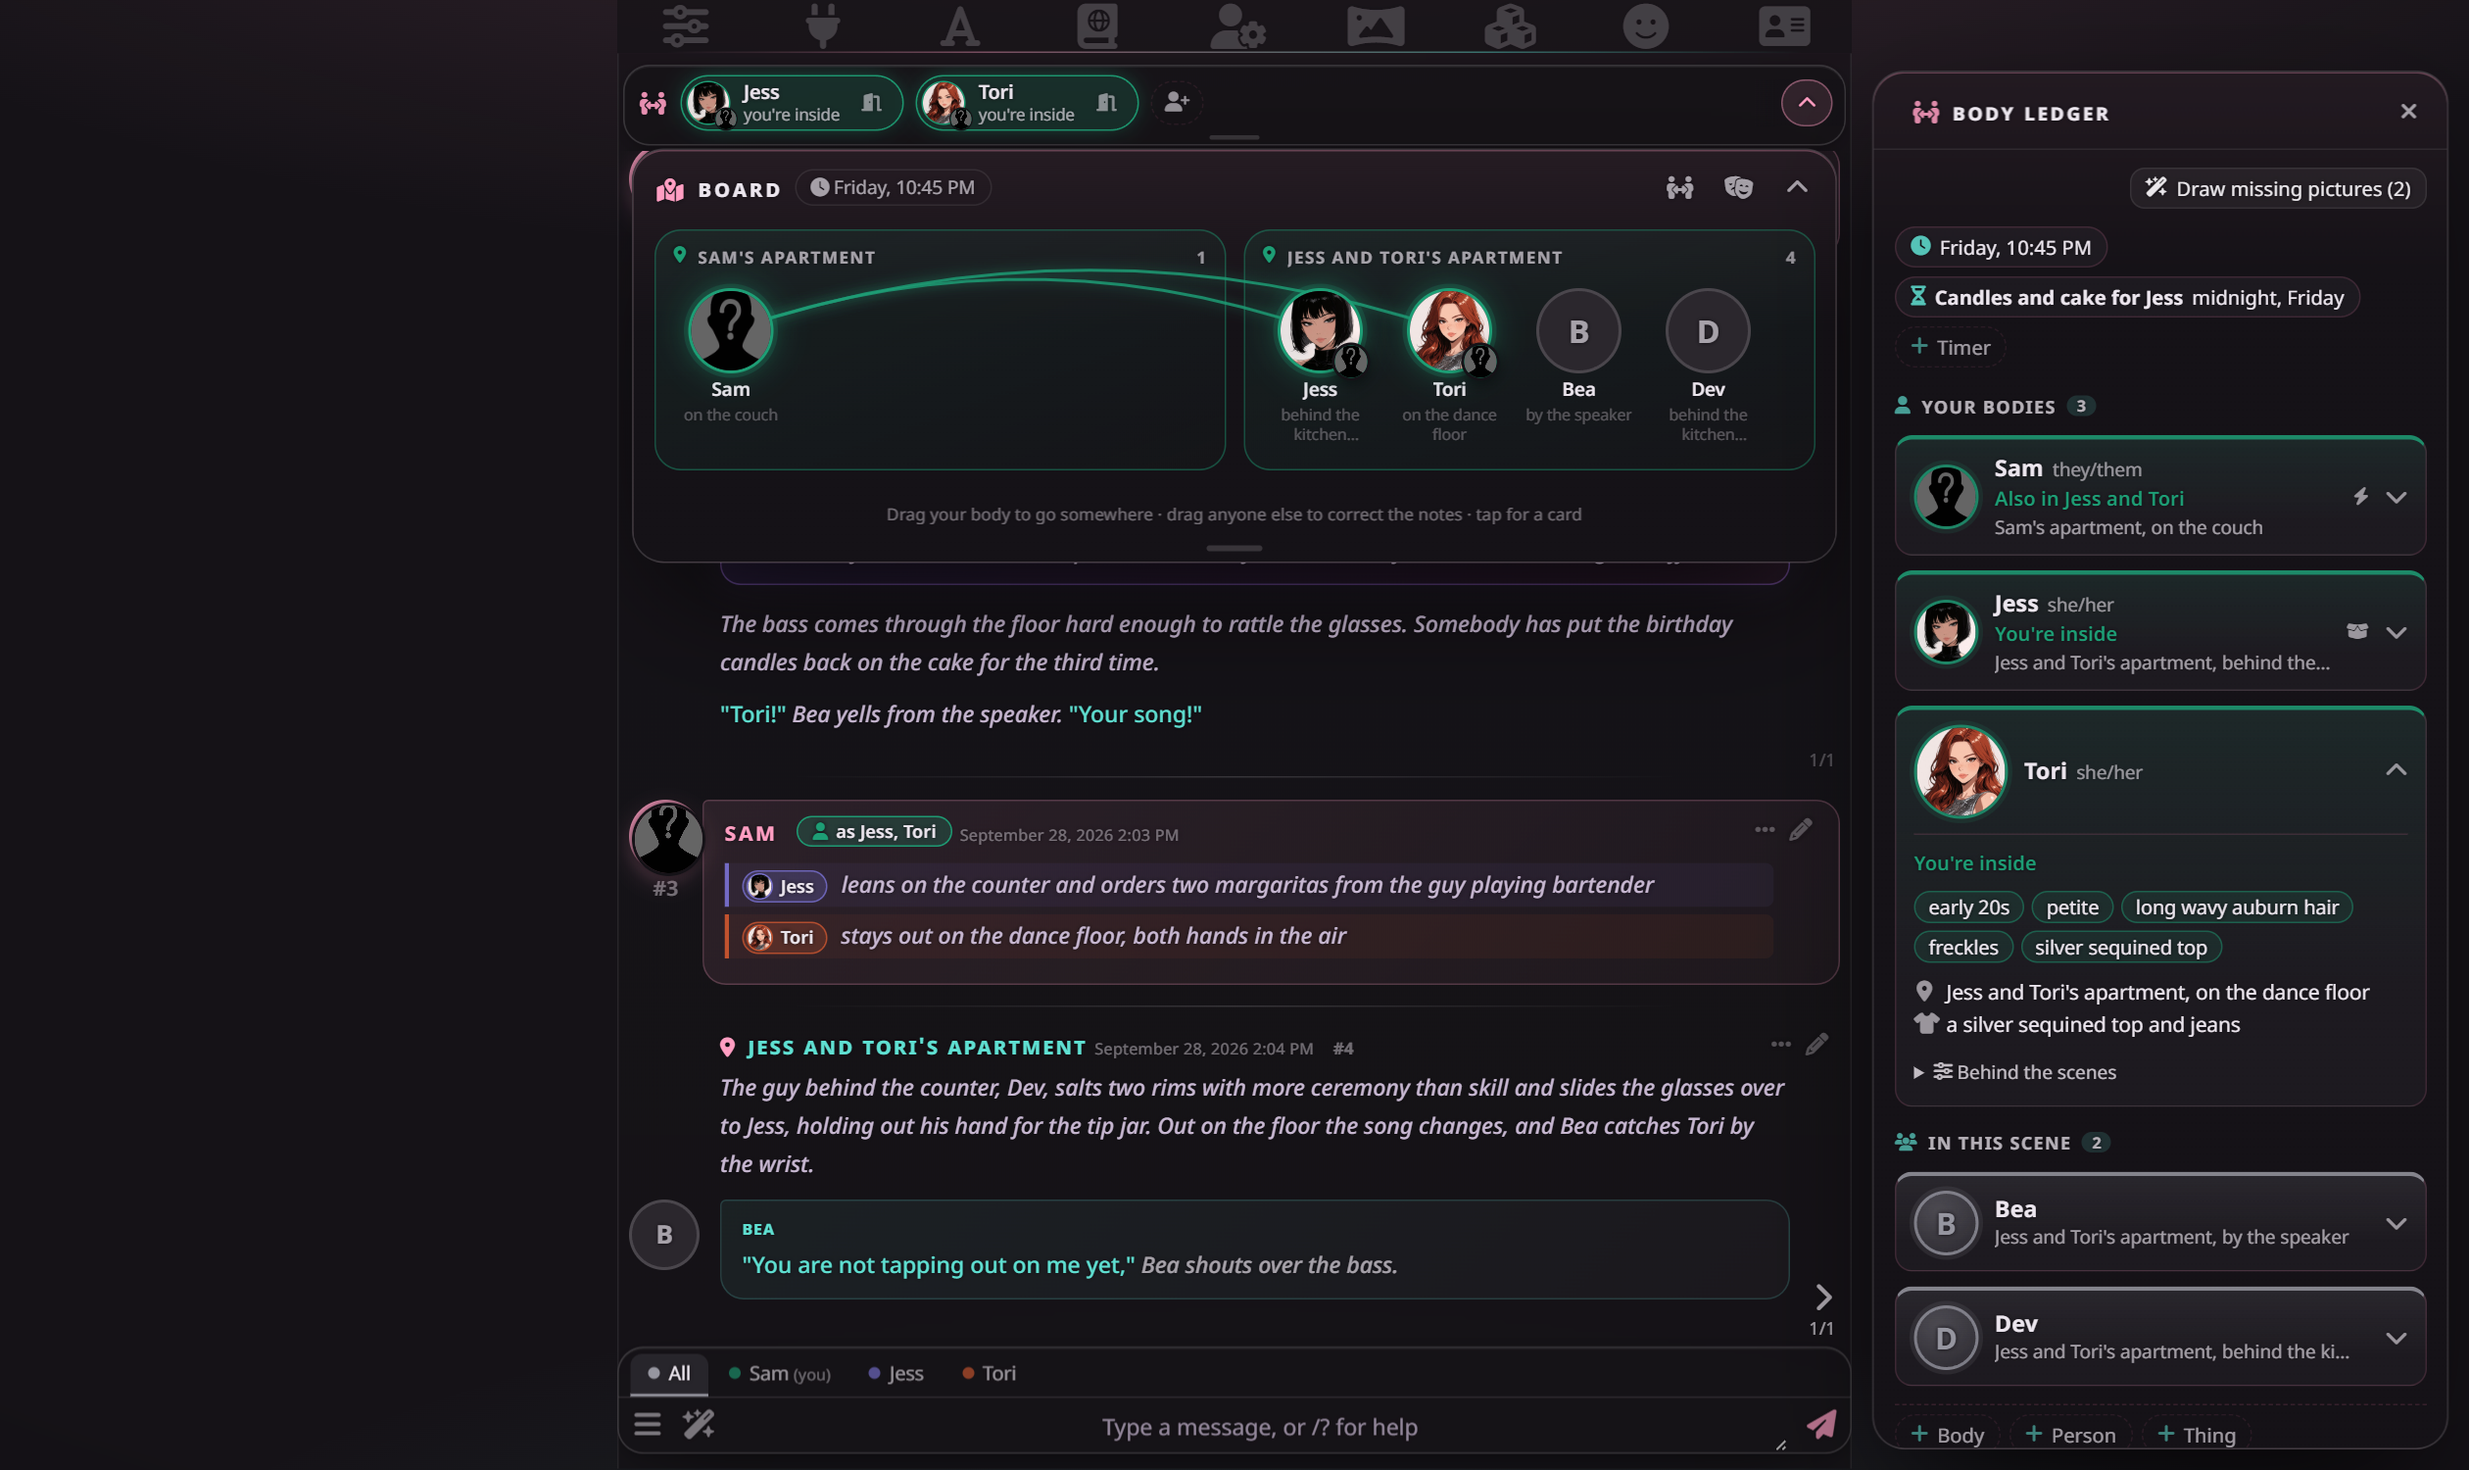
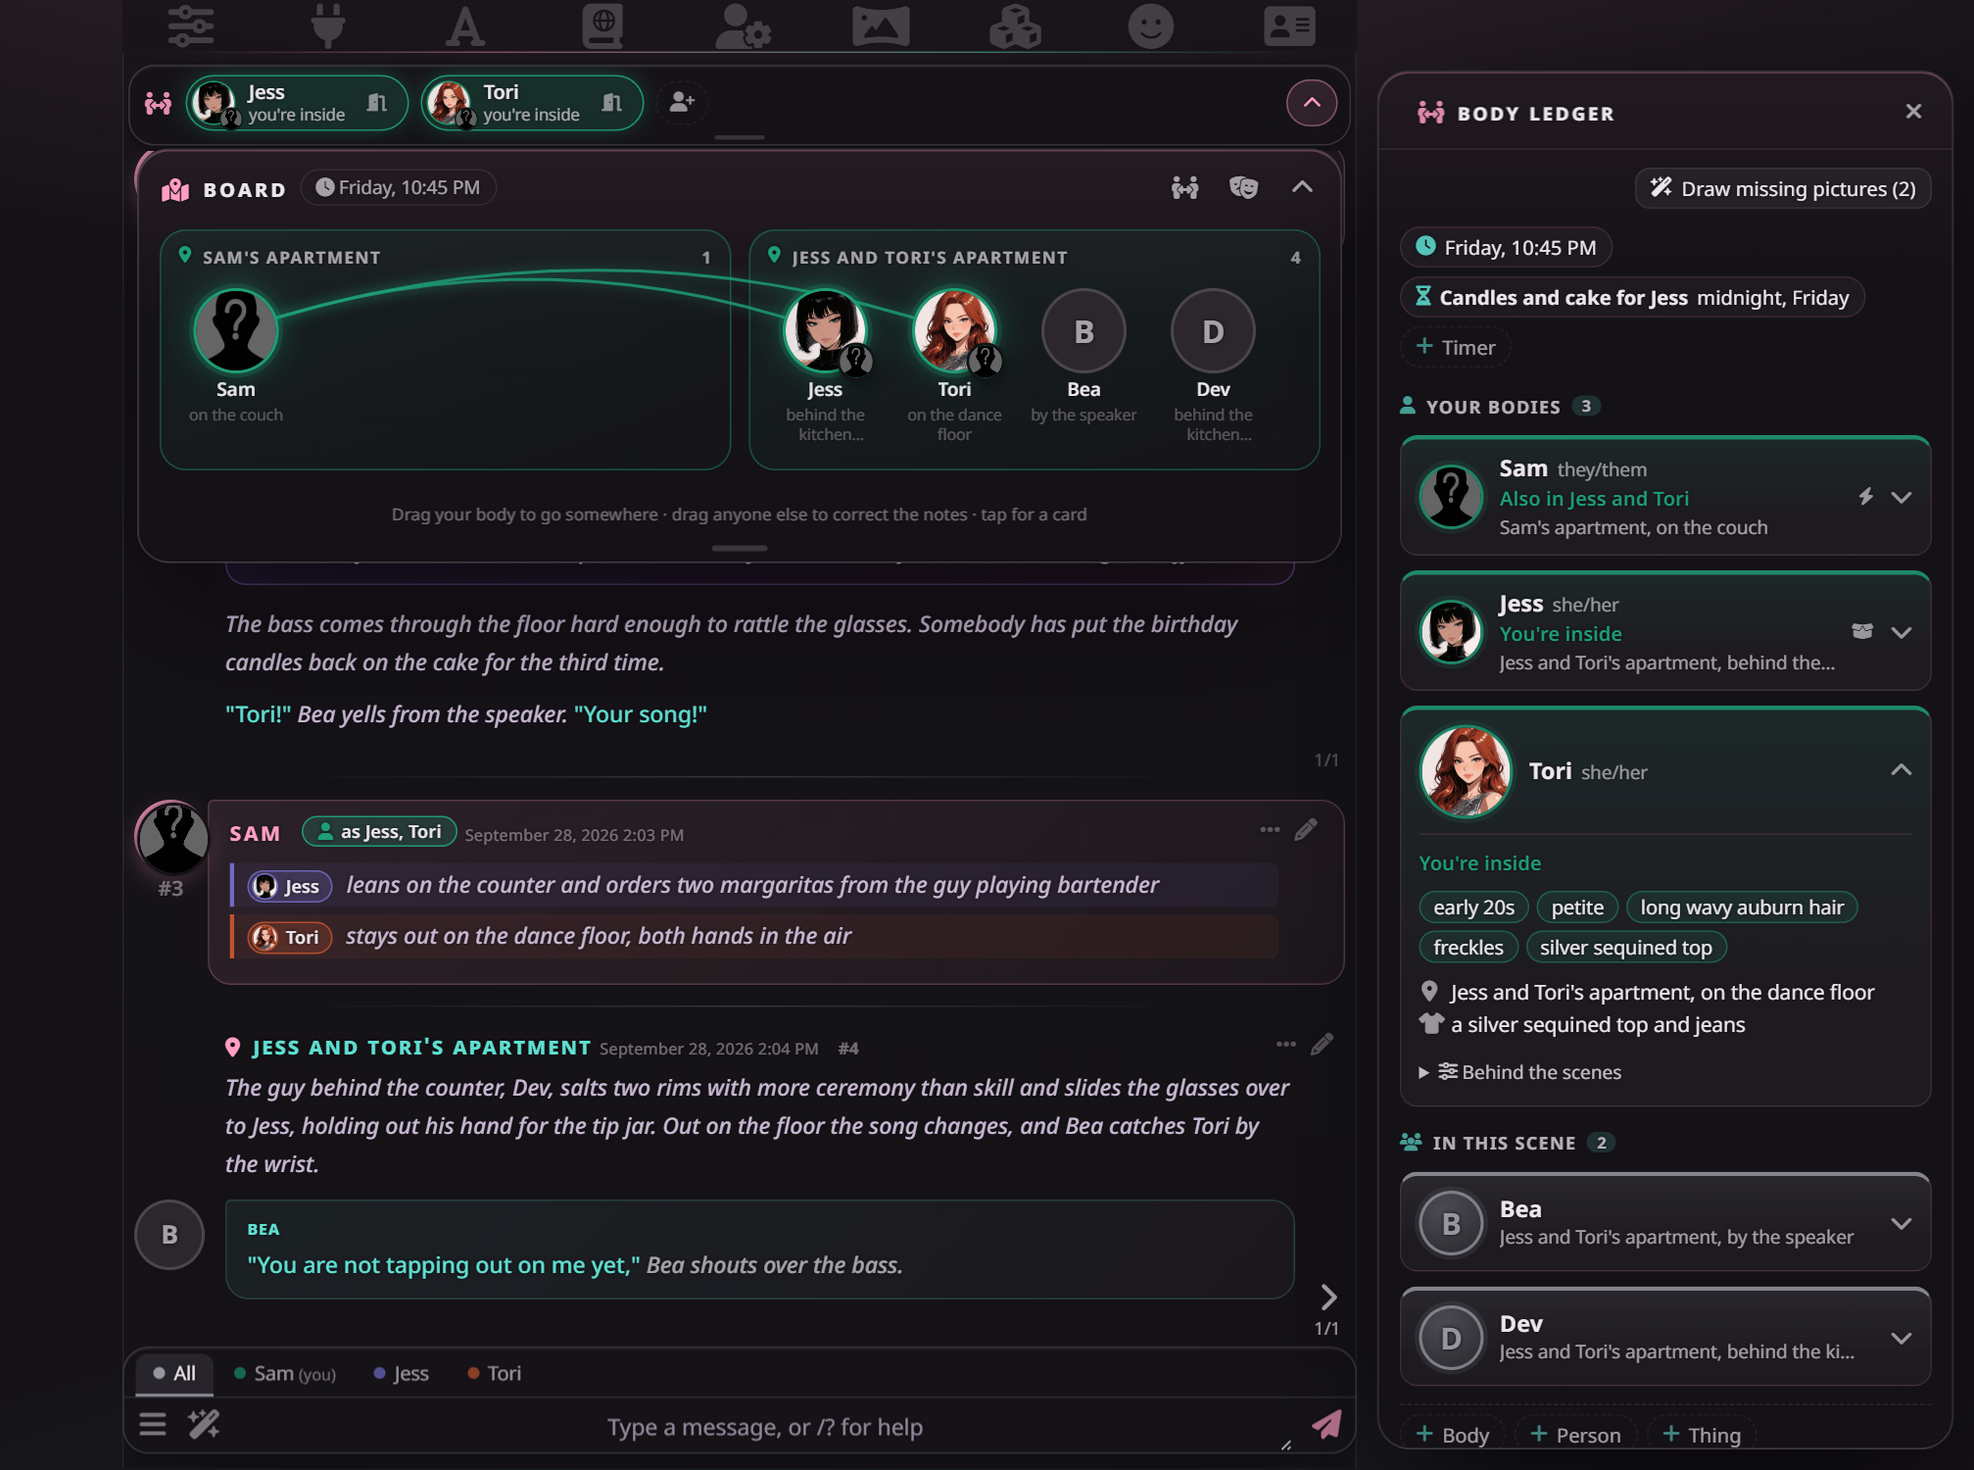
README: the Stage window alone as the hero, the Stage chat shot beside its text, and the window shot without its empty left side

diff --git a/README.md b/README.md
@@ -5,11 +5,8 @@ A SillyTavern extension for metaphysics roleplay: possession, body swaps, mind c
 It keeps the rules, the bodies, and the prose straight, so the model stops getting them wrong.
 </p>
 
-<p align="center">
-<img src="docs/images/chat-bodies.png" width="400" alt="One player running three bodies at a party, in SillyTavern's own look: the bodies strip above the chat, a possession box, a color-coded line for each body, and a tab per body on the message box">
-<img src="docs/images/stage-chat.png" width="400" alt="The same party in Stage mode: the story as narration, each speaker's line beside their face, a scene divider with the story's time, and who was possessed on the possession card">
-</p>
-<p align="center"><sub>The same party in SillyTavern's own look, and in <a href="#-stage-mode">Stage mode</a>.</sub></p>
+<p align="center"><img src="docs/images/stage-window.png" width="820" alt="Stage mode on a wide screen: the Board pulled down over the top of the chat, with Sam at home and Jess, Tori, Bea, and Dev at the party, lines from Sam to the two bodies Sam is in; and the Body Ledger open as a sheet on the right"></p>
+<p align="center"><sub>New in 2.0: <a href="#-stage-mode">Stage mode</a>, an optional new look with a Board of who is where, here with the Body Ledger open as a sheet.</sub></p>
 
 It pairs with the [Worldhopper presets](https://coz-rp.github.io/) (a flagship for every model, plus one each for Claude, Gemini, DeepSeek, GLM, and Kimi and MiMo), and works with any other preset, Chat Completion or Text Completion. With a Worldhopper preset, switch on its ✚ Metaphysics Check in metaphysics chats (the Modes panel offers to when it's off): it reads the Body Ledger and Mind Book before each reply.
 
@@ -304,13 +301,11 @@ Each marker closes with its slash twin (`%%/trance%%`). The model only sees thes
 
 ## 🎬 Stage mode
 
-<p align="center"><img src="docs/images/stage-window.png" width="800" alt="Stage mode on a wide screen: the Board pulled down over the top of the chat, with Sam at home and Jess, Tori, Bea, and Dev at the party, lines from Sam to the two bodies Sam is in; and the Body Ledger open as a sheet on the right"></p>
+<img src="docs/images/stage-chat.png" width="320" align="right" alt="A party in Stage mode: the story as narration, each speaker's line beside their face, a scene divider with the story's time, and who was possessed on the possession card">
 
 An optional new look for all of SillyTavern, built for the Engine. It ships **off**: switch it on at the top of the Worldhopper panel, from the wand menu, or with the masks at the end of the bodies strip. It says what it changes before it turns on, and switching it off puts everything back as it was. Nothing in your chats, cards, or settings is changed either way.
 
 **The look.** The top bar, menus, buttons, popups, the chat, and the message box get Worldhopper's own style, drawn in your theme's colors. It works with or without [Moonlit Echoes](https://github.com/RivelleDays/SillyTavern-MoonlitEchoesTheme): with it, Stage takes Moonlit Echoes' theme colors and sizes; Moonlit Echoes' picture-led chat styles (Echo, Whisper, Hush, Ripple, Tide) step aside while Stage is on and come back when it's off.
-
-<img src="docs/images/stage-board.png" width="340" align="right" alt="The Board: Sam's apartment with Sam on the couch, and Jess and Tori's apartment with Jess, Tori, Bea, and Dev, with your face small on Jess and Tori and lines running from Sam to them">
 
 **The chat**, read like a story:
 
@@ -319,6 +314,10 @@ An optional new look for all of SillyTavern, built for the Engine. It ships **of
 - A scenario card's picture steps aside, and its name gives way to where the scene is (from the World notes). A card that is a person has their face on their own lines.
 - Where the story jumps in time or changes place, a divider shows the story's day and time ("Tuesday, 3:45 PM · an hour later").
 - Your messages show the body you wrote them from, with your own face small on it, and your `[Jess]` lines carry Jess's face.
+
+<br clear="right">
+
+<img src="docs/images/stage-board.png" width="340" align="right" alt="The Board: Sam's apartment with Sam on the couch, and Jess and Tori's apartment with Jess, Tori, Bea, and Dev, with your face small on Jess and Tori and lines running from Sam to them">
 
 **The Board.** The bodies strip becomes a band at the top of the chat. Pull it down, or tap it, and the Board drops over the top of the chat: everyone the story is using, gathered into the places the World notes have them in, a rider's face on the body they're in, and a line from the rider's own body to it. Tap a face for their card.
 
